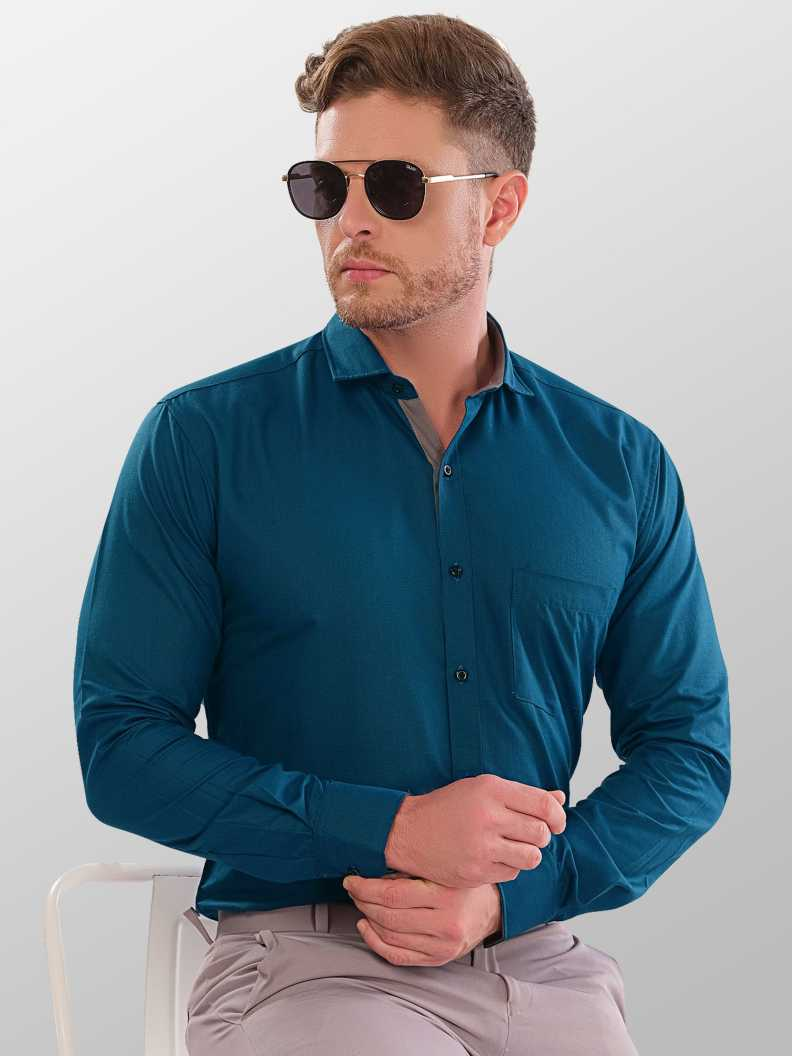
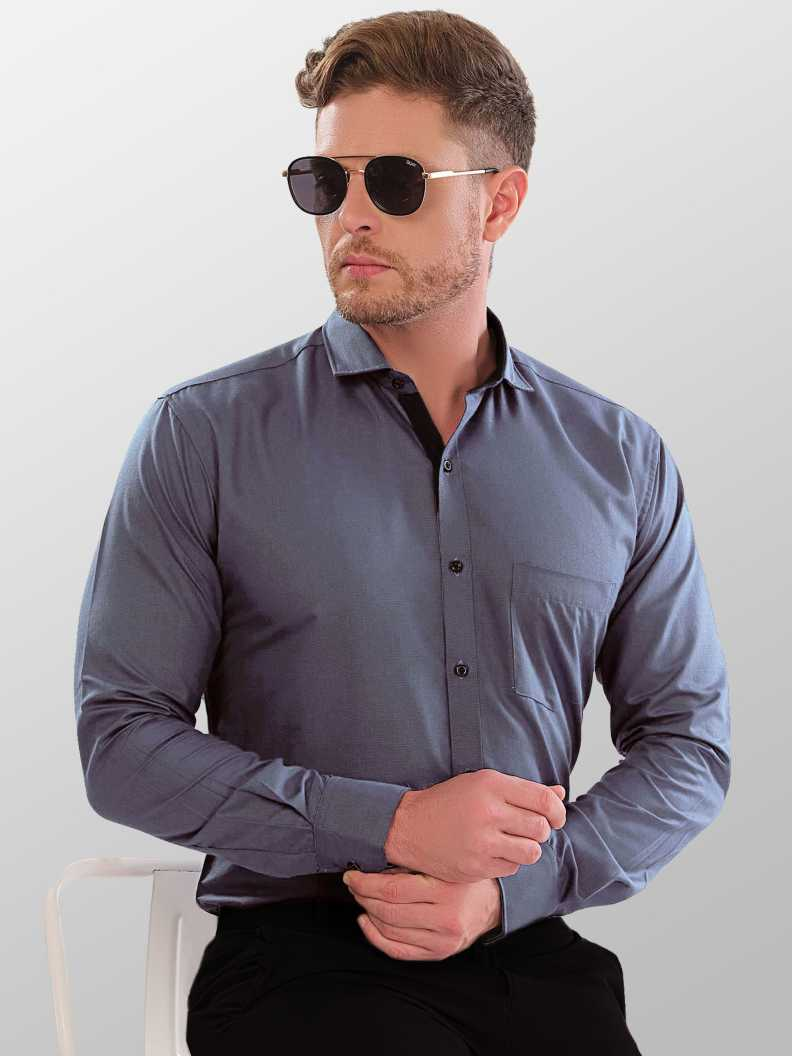
first commit

diff --git a/sproduct1.html b/sproduct1.html
@@ -35,26 +35,26 @@
     </section>
     <section id="prodDetails" class="section-p1">
             <div class="single-pro-image">
-                <img src="img/products/p1.jpeg" width="100%" id="MainImage" alt="">
+                <img src="img/products/p2.jpeg" width="100%" id="MainImage" alt="">
                 <div class="small-img-grp">
                     <div class="small-image-col">
-                        <img src="img/products/p1.jpeg" width="100%" class="small-img" alt="">
+                        <img src="img/products/p2.jpeg" width="100%" class="small-img" alt="">
                     </div>
                     <div class="small-image-col">
-                        <img src="img/products/p1_0.jpeg" width="100%" class="small-img" alt="">
+                        <img src="img/products/p2_0.jpeg" width="100%" class="small-img" alt="">
                     </div>
                     <div class="small-image-col">
-                        <img src="img/products/p1_1.jpeg" width="100%" class="small-img" alt="">
+                        <img src="img/products/p2_1.jpeg" width="100%" class="small-img" alt="">
                     </div>
                     <div class="small-image-col">
-                        <img src="img/products/p1_2.jpeg" width="100%" class="small-img" alt="">
+                        <img src="img/products/p2_2.jpeg" width="100%" class="small-img" alt="">
                     </div>
                 </div>
             </div>
         <div class="single-pro-details">
-            <h6>VeBNoR</h6>
-            <h4>Men Regular Fit Solid Button Down Collar Formal Shirt</h4>
-            <h2>$16.85</h2>
+            <h6>Jai Textiles</h6>
+            <h4>Men Slim Fit Solid Spread Collar Formal Shirt</h4>
+            <h2>$54.3</h2>
             <select>
                 <option>Select Size</option>
                 <option>S</option>

diff --git a/shop.html b/shop.html
@@ -39,9 +39,9 @@
     </section>
     <section id="product1" class="section-p1">
         <div class="pro-container">
-            <div class="pro">
+            <div class="pro" onclick="window.location.href='sproduct.html'">
                 <img src="img/products/p1.jpeg" alt="">
-                <div class="des">
+                <div class="des" >
                     <span>VeBNoR</span>
                     <h5>Men Regular Fit Solid Button Down Collar Formal Shirt</h5>
                     <div class="star">
@@ -55,7 +55,7 @@
                 </div>
                 <a href="#"><i class="fa fa-shopping-cart cart"></i></a>
             </div>
-            <div class="pro">
+            <div class="pro" onclick="window.location.href='sproduct1.html'">
                 <img src="img/products/p2.jpeg" alt="">
                 <div class="des">
                     <span>Jai Textiles</span>

diff --git a/script.js b/script.js
@@ -1,8 +1,23 @@
 var navbar = document.getElementById("navbar");
-        function showMenu(){
-            navbar.style.right="0";
-        }
-        function hideMenu(){
-            navbar.style.right="-300px";
-        }
+function showMenu() {
+    navbar.style.right = "0";
+}
+function hideMenu() {
+    navbar.style.right = "-300px";
+}
 
+var MainImage = document.getElementById('MainImage');
+var smallImg = document.getElementsByClassName('small-img');
+
+smallImg[0].onclick = function () {
+    MainImage.src = smallImg[0].src;
+}
+smallImg[1].onclick = function () {
+    MainImage.src = smallImg[1].src;
+}
+smallImg[2].onclick = function () {
+    MainImage.src = smallImg[2].src;
+}
+smallImg[3].onclick = function () {
+    MainImage.src = smallImg[3].src;
+}

diff --git a/style.css b/style.css
@@ -644,6 +644,15 @@ footer .copyright{
         padding: 0 80px;
         background-position: top 30% right 50%;
     }
+    #prodDetails .single-pro-image{
+        margin-top: 6px;
+    }
+    #prodDetails .single-pro-details{
+        padding-top: 2px;
+    }
+    #prodDetails .single-pro-details h4{
+        padding: 10px 0 10px 0;
+    }
 }
 @media (max-width:477px){
     #menu{
@@ -710,5 +719,9 @@ footer .copyright{
         font-weight: 900;
         color: #054e49;
         text-align: center;
+    }
+    #prodDetails{
+        display: flex;
+        flex-direction: column;
     }
 }
